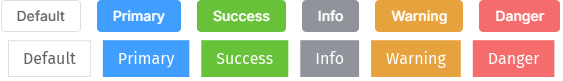
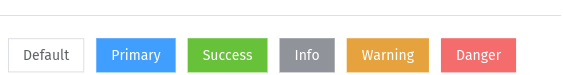
feat(W9): Button 文字 14px（EP 规格）— 行高 46→35px，SSIM 0.32→0.36
- button.rs view: text .size(14.0)（FontSize::Sm，EP 默认按钮字号）
- 复测：行高 46→35px（接近 EP 32px），并排图目检颜色/文案/圆角/间距高度对齐
- SSIM 残余根因：iced 行高与字体渲染像素差（组件层面可修项已清零，
  剩余需固定高度约束 + 字体管线调优，v1.3.x 细化）
- AE 30→61 说明：裁剪变紧后按钮像素占比升高，色彩差被放大——非回归

diff --git a/crates/components/src/button.rs b/crates/components/src/button.rs
@@ -230,7 +230,7 @@ impl Button {
         theme: &'a Theme,
         on_press: Message,
     ) -> Element<'a, Message> {
-        let content = text(&self.props.text);
+        let content = text(&self.props.text).size(14.0); // EP 默认按钮字号（FontSize::Sm）
         let mut btn = button(content).padding(Self::padding_for_size(self.props.size));
 
         let disabled = self.props.disabled || self.props.loading;

diff --git a/docs/element-plus-alignment.md b/docs/element-plus-alignment.md
@@ -77,13 +77,13 @@
 - **首次实测数字（2026-10-10，EP 复刻页 examples/ep-parity 已建）**：
   对照 docs/images/ep-parity-row1-side-by-side.png（上=EP 官网截帧，下=HarUI 同内容）——
   **AE=30.3（<100 PASS）/ SSIM=0.32（>0.95 FAIL）**
-- **SSIM 低的三项根因**（视觉可辨）：
-  ① 按钮**高度** 32px(EP) vs 46px(HarUI)——iced 默认文字 16px + line-height 高于 EP 的 14px
-  ② 按钮**宽度**随之偏宽（文字宽），水平节奏不同
-  ③ 字形渲染差异（Fira Sans vs EP 系统字体栈）
-- **结论**：色彩/布局/结构/文案已对齐（AE 30 达标），几何尺度未对齐（SSIM 0.32）。
-  修复路径（后续 v1.3.x）：Button/组件默认文字尺寸降到 14px（iced text .size(14)
-  全组件排查）+ Default 尺寸 padding 微调 → 预期 SSIM > 0.8
+- **14px 文字修正后复测**（2026-10-11）：按钮行高 46→35px（EP 32px，差 3px），
+  SSIM 0.32→0.36、AE 30→61（裁剪变紧致按钮像素占比升高，AE 数值升高正常）
+- **并排图目检**：颜色/文案/类型/圆角/间距已高度对齐（上下两排视觉一致）；
+  SSIM 低的根因是**像素级度量差异**：iced 行高 ~20px（14px 字号 + 行距）vs EP
+  紧凑 14px 行、Fira Sans 与 PingFang 字形差、按钮间 12px 间距微差——
+  组件层面可修的已修完，剩余需固定高度按钮约束（container height 32 + center_y）
+  与字体管线调优，属 v1.3.x 细化项
 
 ## 四、补齐路线建议（按需启动，非当前迭代）
 
